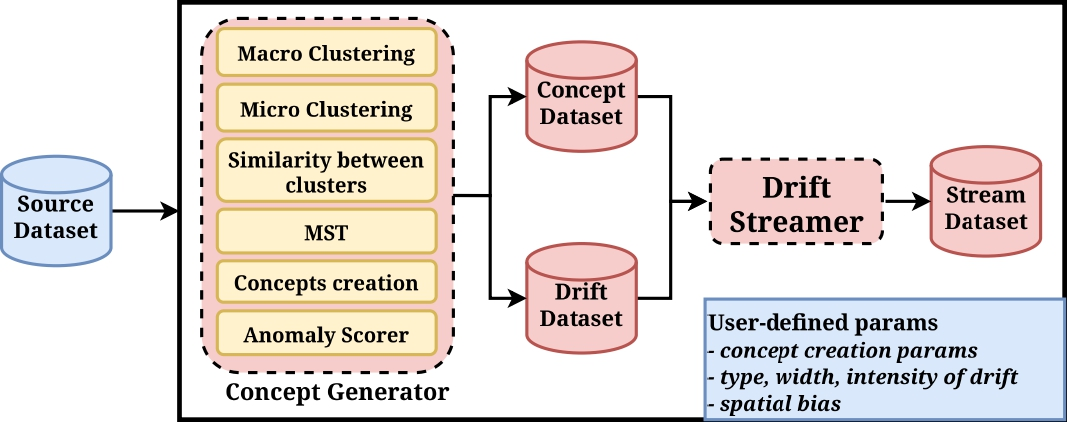
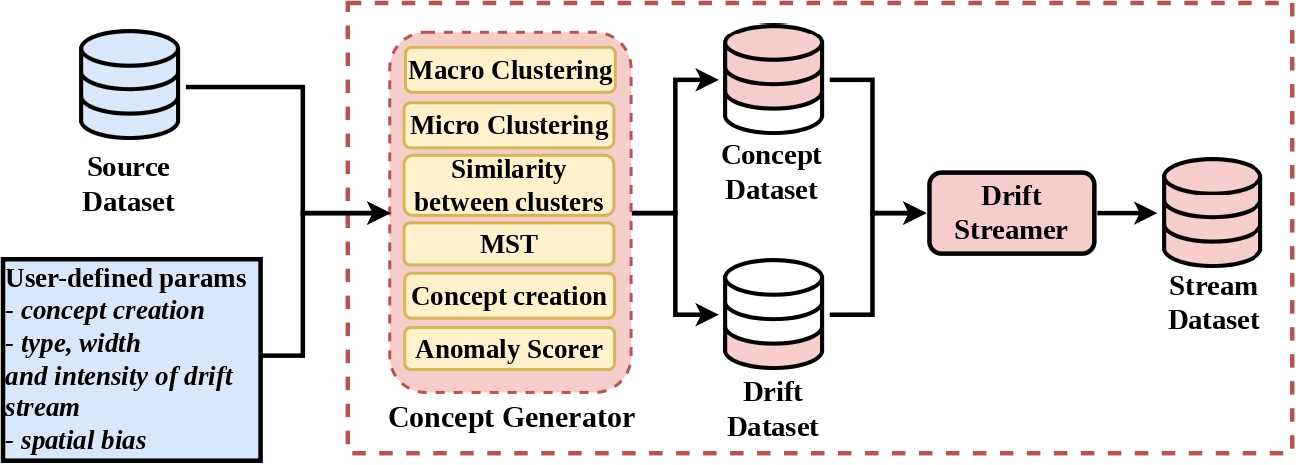
updated readme of E-REFINE framework

diff --git a/README.md b/README.md
@@ -1,18 +1,27 @@
-# REFINE-CDSG
+# E-REFINE
 
-This repository contains the implementation of the **Concept Drift Stream Generator (CDSG)** from the **REFINE framework**.
+This repository contains the implementation of the **Concept Drift Stream Generator (CDSG)** from the **REFINE framework**, available in the [`refine-cdsg`](https://github.com/gabrielecosta/E-REFINE/tree/refine-cdsg) branch.
 
 ## Overview
 
-**Concept Drift Stream Generator (CDSG)** generates a dataset with concept drift and spatial bias, based on user-defined parameters, while avoiding experimental biases related to time.
+E-REFINE is a modular framework designed to address the challenges of evaluating and understanding the reasoning of machine learning-based threat detection systems (TDSs) under concept drift, by combining realistic stream generation, derived from real-world datasets, with configurable drift characteristics and a robust, reproducible evaluation pipeline. The framework takes three inputs: a source dataset, the ML-based threat detection system to be evaluated, and a set of user-defined parameters governing the experimental setup. The overall architecture of the framework is illustrated in the figure below. 
+![E-REFINE framework](E_refine_framework.jpg)
 
-Unlike traditional approaches that rely on feature perturbation or sample interpolation, CDSG constructs concept drift directly from the structure of the original dataset, and streams the resulting data to simulate online scenarios with fine-grained and realistic control.
 
-As shown in the figure below, CDSG consists of two main components:
-- Concept Generator, which constructs the concepts from the original dataset by identifying clusters of similar concepts
-- Drift Streamer,  which builds the final data stream with parameterizable drift characteristics
+E-REFINE is composed of three main subsystems:
+- **Concept Drift Stream Generator (CDSG)**, which, based on user-defined parameters, generates a dataset exhibiting induced concept drift and spatial bias while avoiding temporal experimental biases. 
+- **Robust Evaluation Pipeline**, comprising an *Offline module* for training the threat detection system on static data, and an *Online module* for evaluating its performance on streaming data through fixed-size windows. In addition, the online phase incorporates a set of heterogeneous concept drift detectors within the *Concept Drift Detector module*, used to verify whether the drift induced by the CDSG is consistent with the desired properties.
+- **Explainable module**, which tracks the evolution of feature importance over time and quantifies how the explanations of an online ML model deviate from a reference, revealing which features contribute the most to the observed drift.
+
+### Concept Drift Stream Generator (CDSG)
+
 
 ![CDSG module with its components](CDSG.jpg)
+
+### Robust Evaluation Pipeline
+
+![Robust Evaluation Pipeline](robust_evaluation_pipeline.jpg)
+
 
 ## Repository organization
 This repository contains all components necessary for this project. 
@@ -22,9 +31,17 @@ This repository contains all components necessary for this project.
 | **Concept Generator** | `concept_generator.py` | Concept generator class (`ConceptGenerator`) implementing the concept-generator logic. |
 | **Streamer Generator** | `streamer_generator.py` | Streamer class (`StreamerGen`) implementing Drift Streamer logic. |
 | **CDSG** | `cdsg.py` | Main class (`CDSG`) that coordinates and uses both `ConceptGenerator` and `StreamerGen` classes. |
+| **Offline module** | `robustevaluationpipeline.py` | Main class (`RobustEvaluationPipelineOffline`) that integrates the `Offline` module. |
+| **Online module** | `robustevaluationpipeline_online.py` | Main class (`RobustEvaluationPipelineOnline`) that integrates the `Online` module. |
+| **Robust Evaluation Pipeline** | `robust_eval.py` | Main class (`RobustEval`) that coordinates and uses both `Offline` and `Online` modules. |
+| **Explainable module** | `explainable_module.py` |Main class (`ExtractXAIOnline`) that extracts explanations for the explainable module. |
 | **Datasets** | `datasets/` |This directory contains the input source datasets, which for now should be flow-based datasets. |
 
-Additionally, file `main.py` contains two complete examples of usage of the module and its components. 
+Additionally, the following files containes useful informations and examples for use all the components:
+- `main_cdsg_use.py`: explanation of parameters; 
+- `main_cdsg_examples.py`: examples of use cases for the CDSG module;
+- `robust_eval.py`: examples of usage of the Robust Evaluation Pipeline from training to evaluation;
+- `explainable_module.py`: examples of usage for the Explainable module for extracting explanations.
 
 ---
 
@@ -42,7 +59,7 @@ pip install -r requirements.txt
 
 ## Citation
 
-If you use this repository in your research, please cite:
+If you use this repository in your research, please cite REFINE framework:
 
 ```bibtex
 @article{Costa20261835,
@@ -54,8 +71,4 @@ If you use this repository in your research, please cite:
     pages = {1835--1846},
     doi = {10.5220/0014447100004052},
 }
-
 ```
-### Extended Version
-
-> **Note:** This branch contains the oextended version of REFINE framework, available in the [`refine-cdsg`](https://github.com/gabrielecosta/E-REFINE/tree/refine-cdsg) branch.
